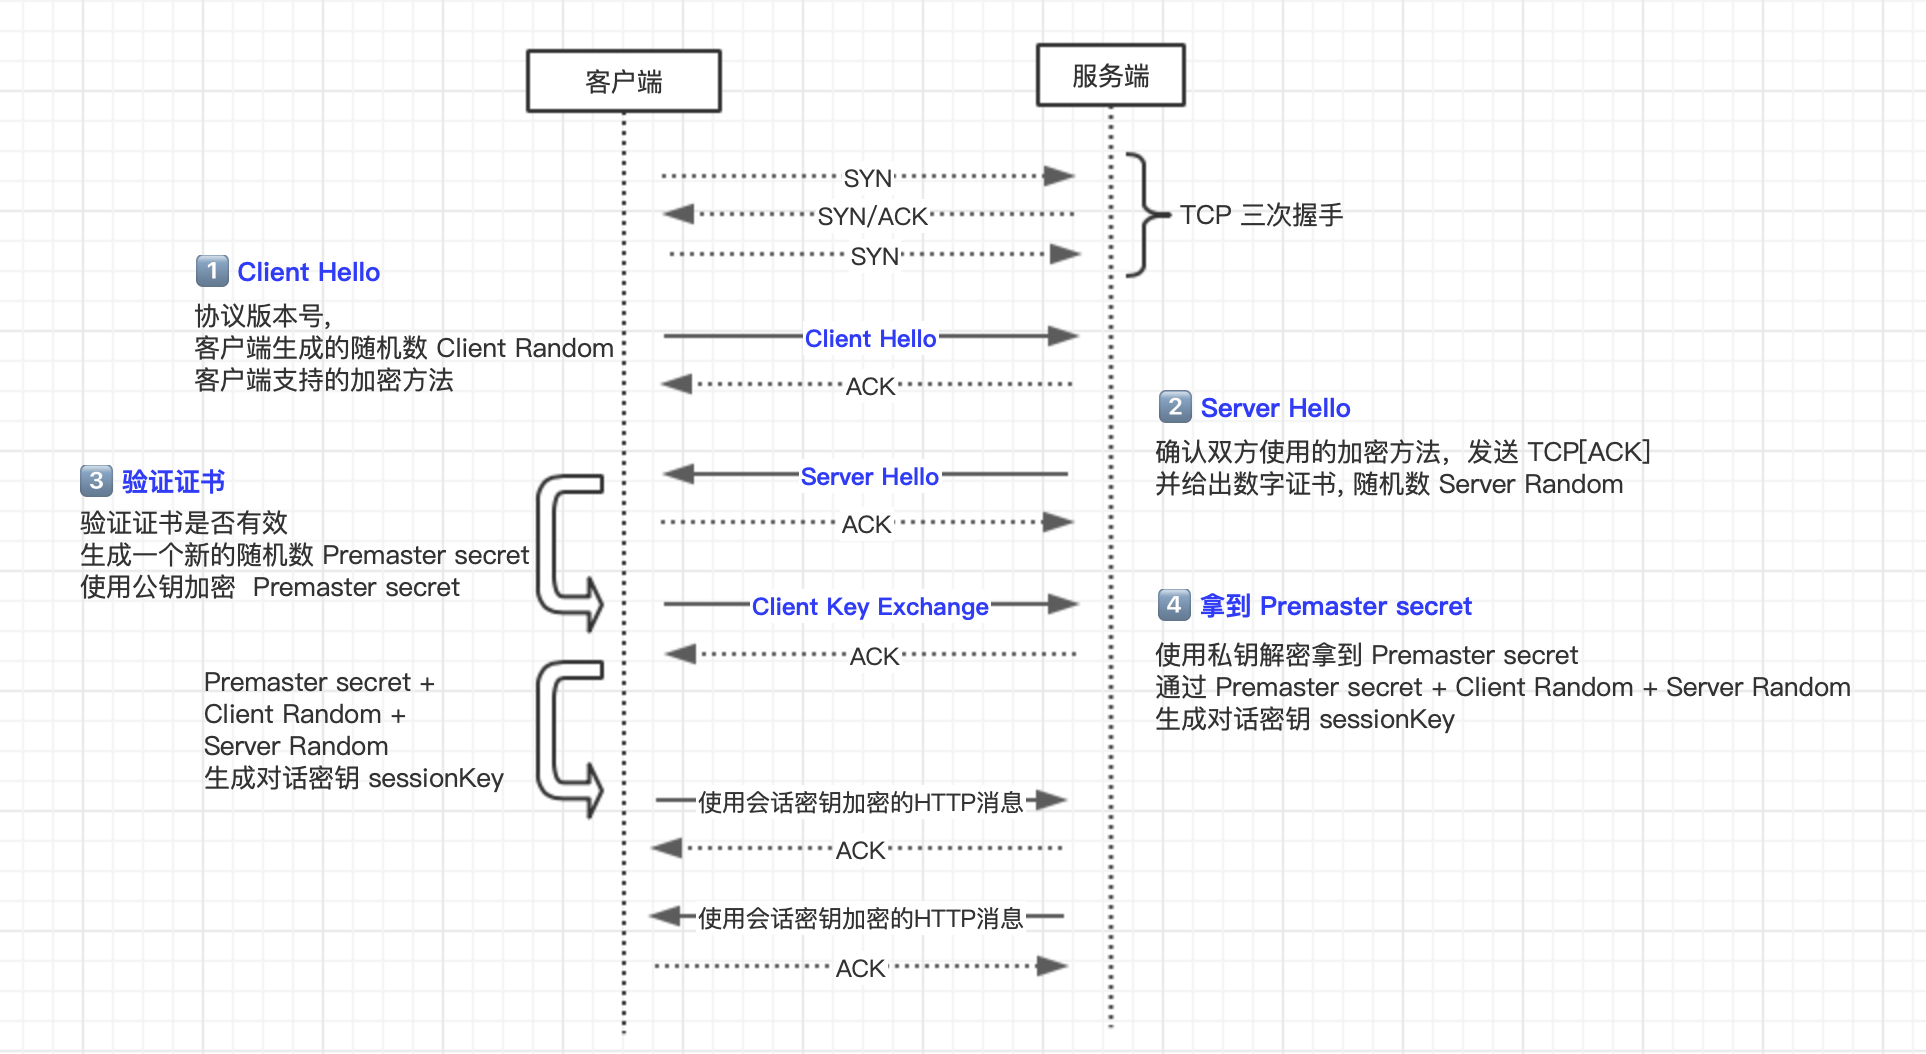
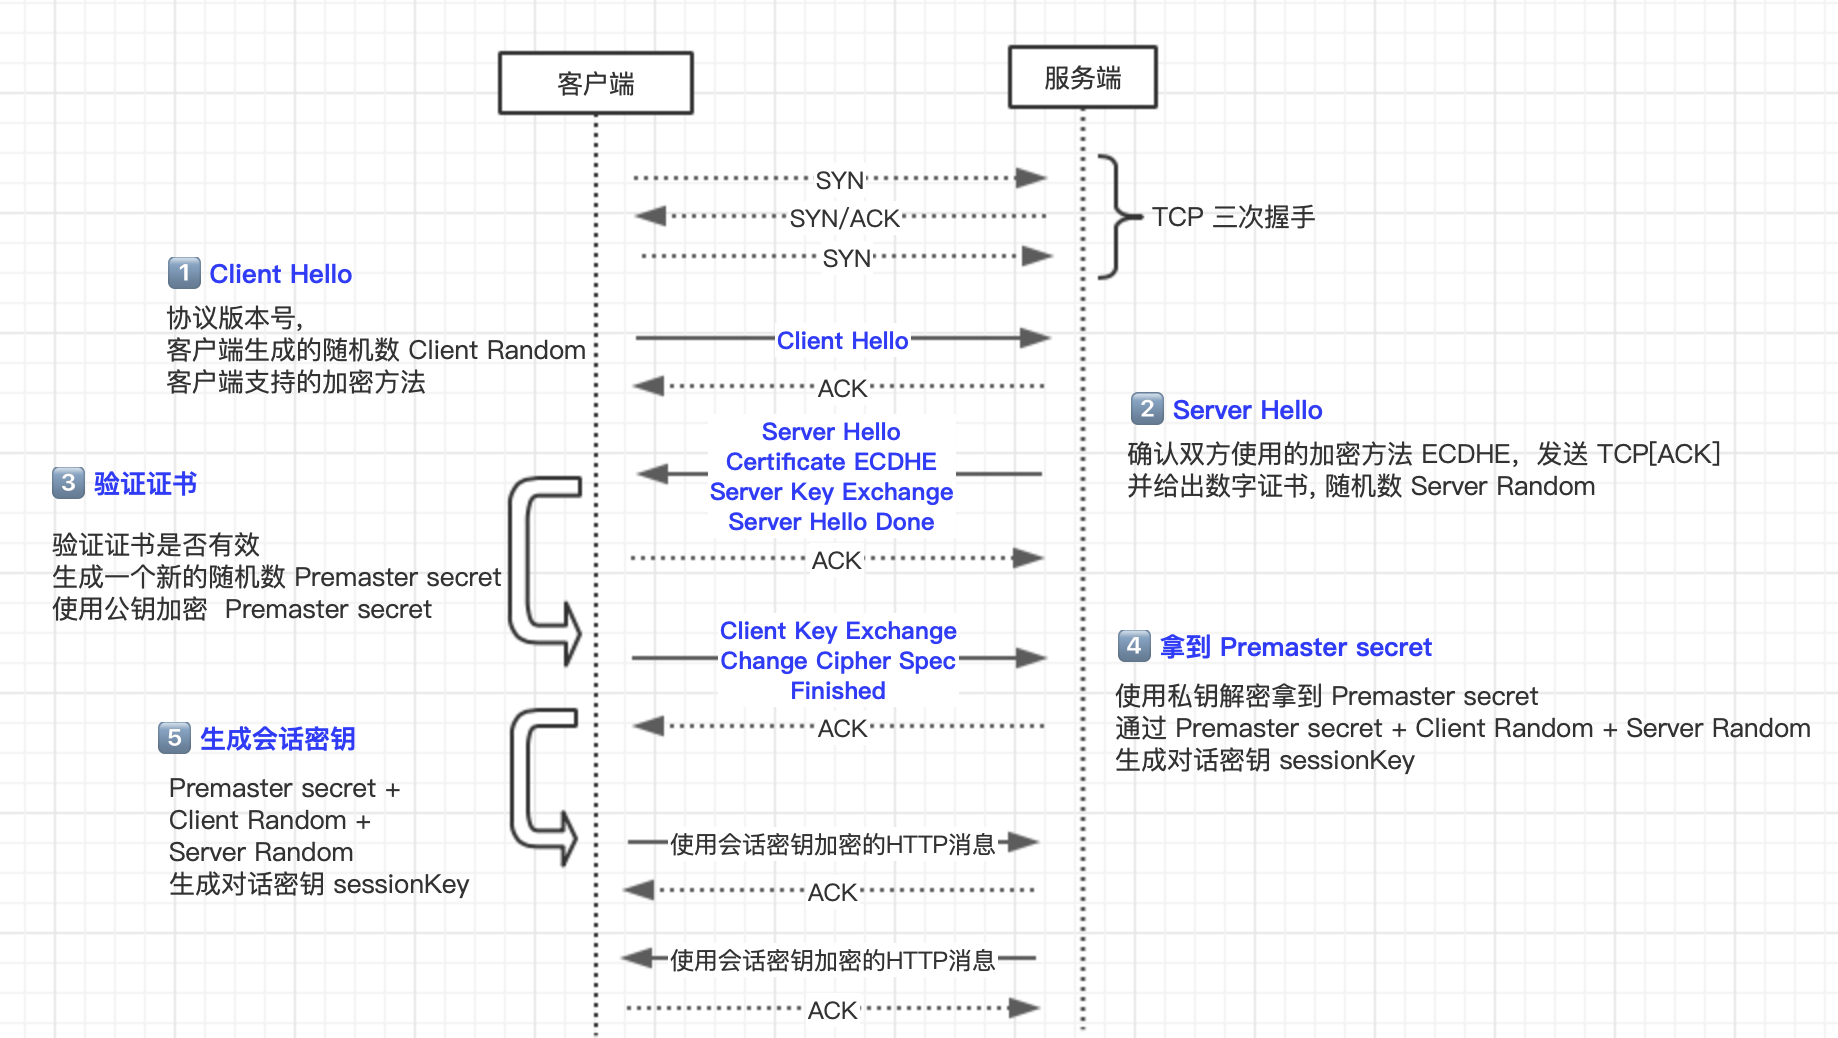
updated at 2020-06-09 02:24:17

diff --git a/docs/.vuepress/config.js b/docs/.vuepress/config.js
@@ -136,12 +136,16 @@ module.exports = {
         {
           title: '基础篇',
           // collapsable: false,
-          children: ['type-url-and-press-enter', 'tcp-connection', 'http-connection', 'http-message', 'status-code', 'cache', 'redirect', 'cookie-session']
+          children: ['type-url-and-press-enter', 'tcp-connection', 'http-connection', 'http-message', 'status-code', 'cache', 'proxy-cache', 'redirect', 'cookie-session']
         },
         {
           title: 'HTTPS',
           children: ['https', 'tsl', 'https-perf']
-        }
+        },
+        // {
+        //   title: '实操篇',
+        //   children: ['practice/cache']
+        // }
       ],
       '/others/': [
         {

diff --git a/docs/http/tsl.md b/docs/http/tsl.md
@@ -3,6 +3,14 @@ title: TSL 连接过程
 date: 2020-06-08 21:40:01
 ---
 
+## TSL 1.2
+
+### 传统 RSA 握手
+
+见 [HTTPS 和 SSL/TSL](./https.md)
+
+### ECDHE 握手过程
+
 开始加密通信之前，客户端和服务器首先必须建立连接和交换参数，这个过程叫做握手（handshake）。
 
 握手阶段分成五步。
@@ -29,4 +37,56 @@ date: 2020-06-08 21:40:01
 2. 握手的目标是安全地交换对称密钥，需要三个随机数，第三个随机数“Pre-Master”必须加密传输，绝对不能让黑客破解；
 3. “Hello”消息交换随机数，“Key Exchange”消息交换“Pre-Master”；
 
-[SSL/TLS 握手过程详解](https://juejin.im/post/584b76d3a22b9d0058d5036)
+### 双向认证
+
+不过上面说的是“**单向认证**”握手过程，只认证了服务器的身份，而没有认证客户端的身份。这是因为通常单向认证通过后已经建立了安全通信，用账号、密码等简单的手段就能够确认用户的真实身份。
+
+实际上 TLS 握手是一个**双向认证**的过程
+
+双向认证的流程也没有太多变化，只是在“**Server Hello Don**e”之后，“**Client Key Exchang**e”之前，客户端要发送“**Client Certificate**”消息，服务器收到后也把证书链走一遍，验证客户端的身份。
+
+### RSA 握手和 ECDHE 握手的区别
+
+1. ECDHE 握手，也就是主流的 TLS1.2 握手中，使用 ECDHE 实现 pre_random 的加密解密，没有用到 RSA。
+2. 使用了 ECDHE，<span class='orange'>客户端可以不用等到服务器发回“Finished”确认握手完毕立即就发出 HTTP 报文</span>，省去了一个消息往返的时间浪费。这个叫“**TLS False Start**”，意思就是“抢跑”，和“TCP Fast Open”有点像，都是不等连接完全建立就提前发应用数据，提高传输的效率。
+
+## TSL 1.3 做了哪些改进
+
+TLS 1.2 虽然存在了 10 多年，经历了无数的考验，但历史的车轮总是不断向前的，为了获得更强的安全、更优秀的性能，在 2018 年就推出了 TLS1.3，对于 TLS1.2 做了一系列的改进，主要分为这几个部分:强化安全、提高性能。
+
+### 强化安全
+
+在 TLS1.3 中废除了非常多的加密算法，最后只保留五个加密套件:
+
+- TLS_AES_128_GCM_SHA256
+- TLS_AES_256_GCM_SHA384
+- TLS_CHACHA20_POLY1305_SHA256
+- TLS_AES_128_GCM_SHA256
+- TLS_AES_128_GCM_8_SHA256
+
+可以看到，最后剩下的对称加密算法只有 `AES` 和 `CHACHA2`0，之前主流的也会这两种。分组模式也只剩下 `GCM` 和 `POLY1305`, 哈希摘要算法只剩下了 `SHA256` 和 `SHA384` 了。
+
+<blockquote class='box'>
+
+#### 那你可能会问了, 之前 RSA 这么重要的非对称加密算法怎么不在了？
+
+回到 RSA 握手的过程中，客户端拿到服务器的证书后，提取出服务器的公钥，然后生成 `Client Random` 并用公钥加密传给服务器，服务器通过私钥解密，从而拿到真实的 `Client Random`
+
+当中间人拿到了服务器私钥，并且截获之前所有报文的时候，那么就能拿到 `Client Random` 和 `Server Random` 并根据对应的随机数函数生成 `Premaster secret`, 最终得到会话密钥。
+
+也就是拿到了 TLS 最终的会话密钥，每一个历史报文都能通过这样的方式进行破解。
+
+但 `ECDHE` 在每次握手时都会生成临时的密钥对，即使私钥被破解，之前的历史消息并不会收到影响。这种一次破解并不影响历史信息的性质也叫**前向安全性**。
+
+`RSA` 算法不具备前向安全性，而 `ECDHE` 具备，因此在 TLS1.3 中彻底取代了 RSA。
+
+</blockquote>
+
+### 提升性能
+
+HTTPS 建立连接时除了要做 TCP 握手，还要做 TLS 握手，在 1.2 中会多花两个消息往返（2-RTT），可能导致几十毫秒甚至上百毫秒的延迟，在移动网络中延迟还会更严重。
+
+参考
+
+- [SSL/TLS 握手过程详解](https://juejin.im/post/584b76d3a22b9d0058d5036)
+- [神三元（建议精读）HTTP 灵魂之问，巩固你的 HTTP 知识体系](https://juejin.im/post/5e76bd516fb9a07cce750746)

diff --git a/docs/http/proxy-cache.md b/docs/http/proxy-cache.md
@@ -1,0 +1,75 @@
+---
+title: 代理缓存
+date: 2020-06-09 00:26:13
+---
+
+回忆 [HTTP 的缓存机制](../cache.md)：
+
+首先通过 `Cache-Control` 验证强缓存是否可用
+
+- 如果强缓存可用，直接使用
+- 否则进入协商缓存，即发送 HTTP 请求。
+  - 检查 `Etag/If-None-Match` 是否一致 一致则缓存可用，返回 `304 Not Modified`
+  - 检查 `Last-Modified/If-Modified-Since` 是否一致 一致则缓存可用，返回 `304 Not Modified`
+
+## 为什么产生代理缓存？
+
+对于源服务器来说，它也是有缓存的，比如 Redis, Memcache，但对于 HTTP 缓存来说，如果每次客户端缓存失效都要到源服务器获取，那给源服务器的压力是很大的。
+
+由此引入了缓存代理的机制。让代理服务器接管一部分的服务端 HTTP 缓存，客户端缓存过期后就近到代理缓存中获取，代理缓存过期了才请求源服务器，这样流量巨大的时候能明显降低源服务器的压力。
+
+那缓存代理究竟是如何做到的呢？
+
+总的来说，缓存代理的控制分为两部分，一部分是**源服务器端**的控制，一部分是**客户端的控制**。
+
+## 源服务器的缓存控制
+
+### private 和 public
+
+在源服务器的响应头中，会加上 `Cache-Control` 这个字段进行缓存控制字段，那么它的值当中可以加入 `private` 或者 `public` 表示是否允许代理服务器缓存，前者禁止，后者为允许。
+
+比如对于一些非常私密的数据，如果缓存到代理服务器，别人直接访问代理就可以拿到这些数据，是非常危险的，因此对于这些数据一般是不会允许代理服务器进行缓存的，将响应头部的 `Cache-Control` 设为 `private`，而不是 `public`。
+
+### must-revalidate 和 proxy-revalidate
+
+`must-revalidate` 的意思是客户端缓存过期就去源服务器获取，而 `proxy-revalidate` 则表示代理服务器的缓存过期后到源服务器获取
+
+### s-maxage
+
+`s` 是 `share` 的意思，限定了缓存在代理服务器中可以存放多久，和限制客户端缓存时间的 `max-age` 并不冲突。
+
+讲了这几个字段，我们不妨来举个小例子，源服务器在响应头中加入这样一个字段:
+
+```yml
+Cache-Control: public, max-age=1000, s-maxage=2000
+```
+
+相当于源服务器说: 我这个响应是允许代理服务器缓存的，客户端缓存过期了到代理中拿，并且在客户端的缓存时间为 1000 秒，在代理服务器中的缓存时间为 2000 s。
+
+## 客户端的缓存控制
+
+### max-stale 和 min-fresh
+
+在客户端的请求头中，可以加入这两个字段，来对代理服务器上的缓存进行宽容和限制操作。比如：
+
+```yml
+max-stale: 5
+```
+
+表示客户端到代理服务器上拿缓存的时候，即使代理缓存过期了也不要紧，只要过期时间在 5 秒之内，还是可以从代理中获取的。
+
+又比如:
+
+```jml
+min-fresh: 5
+```
+
+表示代理缓存需要一定的新鲜度，不要等到缓存刚好到期再拿，一定要在到期前 5 秒之前的时间拿，否则拿不到。
+
+### only-if-cached
+
+这个字段加上后表示客户端只会接受代理缓存，而不会接受源服务器的响应。如果代理缓存无效，则直接返回 `504（Gateway Timeout）`。
+
+---
+
+参考 [神三元（建议精读）HTTP 灵魂之问，巩固你的 HTTP 知识体系](https://juejin.im/post/5e76bd516fb9a07cce750746)
